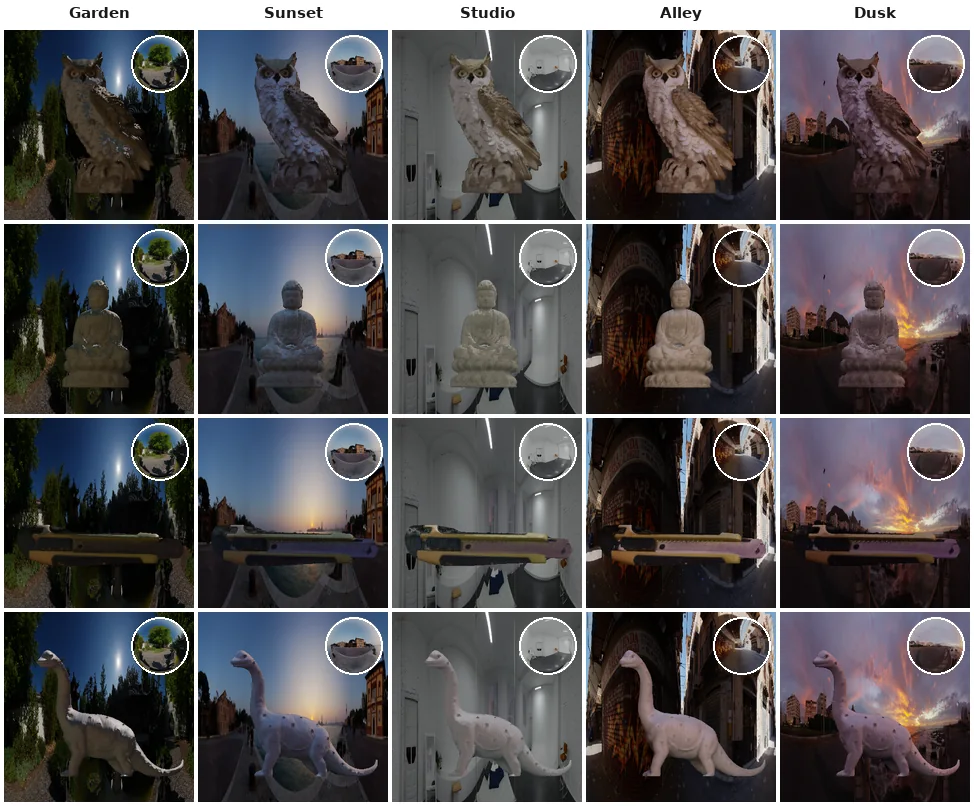
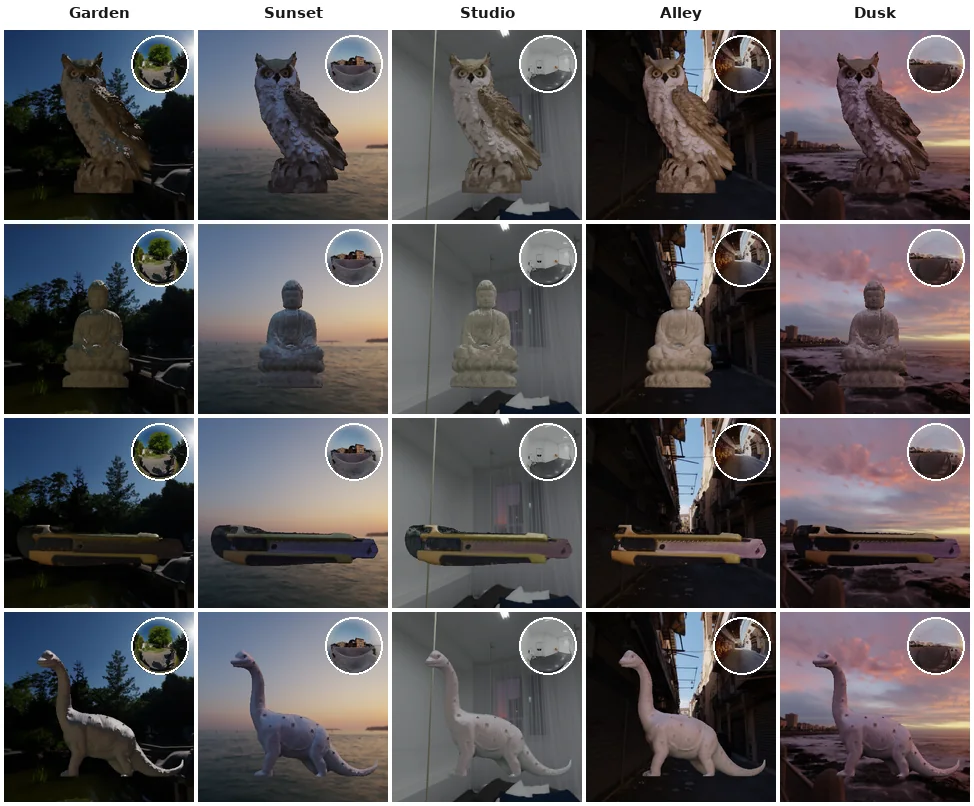
Give the environment backgrounds a real projection
The composited background was squeezed horizontally because the renderer's
default `make_panoramic_bg` maps a full 360 degrees of longitude across the
image width while covering only 90 degrees of latitude down its height: four to
one, in a square frame.

The same module already has `make_perspective_bg`, a pinhole projection. All 180
stills are re-rendered through it at a 65 degree vertical field of view, with the
pitch derived from `bg_v_center` so the horizon stays where it was. Foreground
shading is untouched.

diff --git a/index.html b/index.html
@@ -11,13 +11,13 @@
   <link href="https://fonts.googleapis.com/css?family=Google+Sans|Noto+Sans|Castoro"
         rel="stylesheet">
 
-  <link rel="stylesheet" href="./static/css/bulma.min.css?v=12">
+  <link rel="stylesheet" href="./static/css/bulma.min.css?v=13">
   <link rel="stylesheet" href="https://cdnjs.cloudflare.com/ajax/libs/font-awesome/5.15.3/css/all.min.css" />
-  <link rel="stylesheet" href="./static/css/index.css?v=12">
+  <link rel="stylesheet" href="./static/css/index.css?v=13">
 
-  <script defer src="./static/js/fontawesome.all.min.js?v=12"></script>
-  <script defer src="./static/js/index.js?v=12"></script>
-  <script defer src="./static/js/relight.js?v=12"></script>
+  <script defer src="./static/js/fontawesome.all.min.js?v=13"></script>
+  <script defer src="./static/js/index.js?v=13"></script>
+  <script defer src="./static/js/relight.js?v=13"></script>
 </head>
 <body>
 
@@ -93,7 +93,7 @@
           reflectance data.
         </p>
       </div>
-      <div class="figure-frame"><img src="./static/image/teaser.webp?v=12" alt="Teaser"></div>
+      <div class="figure-frame"><img src="./static/image/teaser.webp?v=13" alt="Teaser"></div>
     </div>
   </div>
 </section>
@@ -117,10 +117,10 @@
     </div>
 
     <p class="panel-title">Estimated PBR maps</p>
-    <div class="figure-frame pbr-frame"><img id="resPbr" src="./static/image/results/scene29_pbr.webp?v=12" alt="Estimated PBR maps"></div>
+    <div class="figure-frame pbr-frame"><img id="resPbr" src="./static/image/results/scene29_pbr.webp?v=13" alt="Estimated PBR maps"></div>
 
     <p class="panel-title">Relighting under a held-out display pattern</p>
-    <div class="figure-frame"><img id="resRelight" src="./static/image/results/scene29_relight.webp?v=12" alt="Relighting comparison"></div>
+    <div class="figure-frame"><img id="resRelight" src="./static/image/results/scene29_relight.webp?v=13" alt="Relighting comparison"></div>
   </div>
 
   <!-- ===================== Interactive relighting ===================== -->
@@ -147,18 +147,18 @@
       <span class="axis-label">Lighting</span>
       <div class="scene-tabs" id="envLightTabs"></div>
     </div>
-    <div class="figure-frame"><img id="envImg" src="./static/image/envgrid/o1_l1.webp?v=12" alt="Environment relighting grid"></div>
+    <div class="figure-frame"><img id="envImg" src="./static/image/envgrid/o1_l1.webp?v=13" alt="Environment relighting grid"></div>
   </div>
 
   <!-- ===================== Dynamic scene ===================== -->
   <h2>Dynamic scene</h2>
   <div class="video-pair">
     <figure>
-      <video src="./static/video/dynamic_capture.mp4?v=12" autoplay loop muted playsinline></video>
+      <video src="./static/video/dynamic_capture.mp4?v=13" autoplay loop muted playsinline></video>
       <figcaption>Capture</figcaption>
     </figure>
     <figure>
-      <video src="./static/video/dynamic_relit.mp4?v=12" autoplay loop muted playsinline></video>
+      <video src="./static/video/dynamic_relit.mp4?v=13" autoplay loop muted playsinline></video>
       <figcaption>Relit, frame by frame</figcaption>
     </figure>
   </div>
@@ -171,7 +171,7 @@
     <li>A quarter-wave plate on the lens trades <em>S</em><sub>2</sub> for <em>S</em><sub>3</sub>, making circular polarization measurable.</li>
     <li>Per channel: unpolarized = <em>S</em><sub>0</sub>&minus;<em>S</em><sub>1</sub>, LP = &minus;<em>S</em><sub>1</sub>, CP = <em>S</em><sub>3</sub>/<em>S</em><sub>0</sub>.</li>
   </ul>
-  <div class="figure-frame"><img src="./static/image/imaging_system.webp?v=12" alt="Display-camera imaging system"></div>
+  <div class="figure-frame"><img src="./static/image/imaging_system.webp?v=13" alt="Display-camera imaging system"></div>
 
   <!-- ===================== Method ===================== -->
   <h2>Feed-forward inverse rendering</h2>
@@ -180,7 +180,7 @@
     <li>Attention alternates over space, spectral channel, polarization state and frames.</li>
     <li>One forward pass &rarr; normal, albedo, roughness, metallicity.</li>
   </ul>
-  <div class="figure-frame"><img src="./static/image/overview.webp?v=12" alt="Network overview"></div>
+  <div class="figure-frame"><img src="./static/image/overview.webp?v=13" alt="Network overview"></div>
 
   <!-- ===================== Dataset ===================== -->
   <h2>Expanded pBRDF dataset</h2>
@@ -191,10 +191,10 @@
   </ul>
   <div class="columns is-centered">
     <div class="column is-three-fifths">
-      <div class="figure-frame"><img src="./static/image/expand_data.webp?v=12" alt="pBRDF expansion pipeline"></div>
+      <div class="figure-frame"><img src="./static/image/expand_data.webp?v=13" alt="pBRDF expansion pipeline"></div>
     </div>
   </div>
-  <div class="figure-frame"><img src="./static/image/pbrdf_expansion.webp?v=12" alt="Synthesized pBRDF instances"></div>
+  <div class="figure-frame"><img src="./static/image/pbrdf_expansion.webp?v=13" alt="Synthesized pBRDF instances"></div>
 
   <!-- ===================== Citation ===================== -->
   <h2 id="citation">Citation</h2>

diff --git a/static/js/relight.js b/static/js/relight.js
@@ -8,7 +8,7 @@
 (function () {
   'use strict';
 
-  var ASSET_V = '?v=12';
+  var ASSET_V = '?v=13';
 
   var SCENES = [
     { label: 'Cat', key: 'scene29' },

diff --git a/static/js/index.js b/static/js/index.js
@@ -94,7 +94,7 @@
     });
   }
 
-  var ASSET_V = '?v=12';
+  var ASSET_V = '?v=13';
 
   var SCENES = [
     { label: 'Cat', key: 'scene29' },

diff --git a/README.md b/README.md
@@ -43,7 +43,7 @@ file under the same name.
 |---|---|
 | `image/results/<scene>_pbr.webp` | methods down the rows, modalities across; column 0 is each method's own preprocessed input, exposed to a common foreground mean so the column is comparable &mdash; ours is solved in the linear HDR domain before the gamma, and estimated maps are untouched. Fixed source height (888 px), width follows the object; the page pins one displayed height for every scene and lets the figure run wider than the text column so the flattest object still fits |
 | `image/results/<scene>_relight.webp` | `PDIR/outputs/render_12pat_5method_bright_crop`, pattern `AntiDiag` |
-| `image/envgrid/o{1..3}_l{1..3}.webp` | 12 objects x 15 environments as nine 4x5 grids, object set and lighting set chosen independently on the page. `fg_gain=2.7`, mirror ball top-right from `render_env_3scene_5method_xflip/_chromeballs` |
+| `image/envgrid/o{1..3}_l{1..3}.webp` | 12 objects x 15 environments as nine 4x5 grids, object set and lighting set chosen independently on the page. `fg_gain=2.7`, background through `make_perspective_bg` at 65 deg rather than the module's default panoramic crop, mirror ball top-right from `render_env_3scene_5method_xflip/_chromeballs` |
 | `video/dynamic_{capture,relit}.mp4` | `outputs/face_pipeline_scene4_20260914_vanila/_videos_realtime_capturefps`, re-encoded from MPEG-4 to H.264 so browsers can play them |
 | `webgl/<scene>_{albedo,normal,mat}.png` | `pipeline_vanila_valid_final` maps; `mat` packs roughness, metallicity and mask into R, G, B |
 
@@ -59,6 +59,12 @@ DR      input  SIGGA2026/diffusion-renderer/input_real_valid_white_masked/<safe>
 RGB-X   input  SIGGA2026/rgbx/rgbx_dataset/input_real_valid_white/<safe>/frame_00000.png
         maps   SIGGA2026/rgbx/rgbx_dataset/output_rgbx_real_valid_white/<safe>/
 ```
+
+The environment renderer backs the object with `make_panoramic_bg`, which spans
+a full 360 deg of longitude across the image width while covering 90 deg of
+latitude down its height, so a square frame reads as horizontally squeezed. The
+grids swap in `make_perspective_bg`, a pinhole projection, at a 65 deg vertical
+field of view with the pitch taken from `bg_v_center`.
 
 `static/js/relight.js` reproduces `Principled_BRDF.forward`: the light circles
 at radius 0.4 about (0, -0.29, 0) while the shaded point sits at (0, 0, 0.5),
